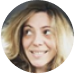
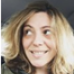
add js for slider, add style for slider

diff --git a/index.html b/index.html
@@ -164,16 +164,11 @@
         </p>
         <div class="four-section_slider">
             <ul>
-                <li><a href=""> <img src="/img/Photo1.png" alt="photo"> <p>John Doe</p>
-                    <p>New Delhi</p></a></li>
-                <li><a href=""><img src="/img/Photo2.png" alt="photo"> <p>John Doe</p>
-                    <p>New Delhi</p></a></li>
-                <li><a href=""> <img src="/img/Photo.png" alt="photo"> <p>John Doe</p>
-                    <p>New Delhi</p></a></li>
-                <li><a href=""><img src="/img/Photo4.png" alt="photo"> <p>John Doe</p>
-                    <p>New Delhi</p></a></li>
-                <li><a href=""> <img src="/img/Photo5.png" alt="photo"> <p>John Doe</p>
-                    <p>New Delhi</p></a></li>
+                <li class="slider-item"> <img src="/img/Photo1.png" alt="photo"> <p>Photo 1 <br> City 1</p></li>
+                <li class="slider-item"><img src="/img/Photo2.png" alt="photo"> <p>Photo 2<br> City 2</p></li>
+                <li class="slider-item activ"><img src="/img/Photo3.png" alt="photo"> <p>John Doe <br> New Delhi</p></li>
+                <li class="slider-item"><img src="/img/Photo4.png" alt="photo"> <p>Photo 3 <br> City 3</p></li>
+                <li class="slider-item"> <img src="/img/Photo5.png" alt="photo"> <p>Photo 4 <br> City 4</p></li>
             </ul>
         </div>
 
@@ -202,9 +197,9 @@
         <h4>CONTACT</h4>
         <p>
             Call : 9811224540. Email: contatus@homify.com
-GMC: gmc@homify.com
-Address: Homify Online Consumer Service Pvt. Ltd.
-2nd Floor, Building No 1735. Sector 2, HSR Layout, Bengluru Karnataka 560102
+            GMC: gmc@homify.com
+            Address: Homify Online Consumer Service Pvt. Ltd.
+            2nd Floor, Building No 1735. Sector 2, HSR Layout, Bengluru Karnataka 560102
         </p>
 
          </div>
@@ -258,10 +253,10 @@ Address: Homify Online Consumer Service Pvt. Ltd.
     <div class="footer-customerService">
         <h4>CUSTOMER SERVICE</h4>
         <ul>
-            <li><a href="">Customer Care Phone: 9811224540</a></li>
-            <li><a href="">Customer Care Email: contatus@homify.com</a></li>
-            <li><a href="">F&Q</a></li>
-            <li><a href="">Feedback</a></li>
+            <li><a href="tel:+9811224540">Customer Care Phone: 9811224540</a></li>
+            <li><a href="mailto:contatus@homify.com">Customer Care Email: contatus@homify.com</a></li>
+            <li><a href="#">F&Q</a></li>
+            <li><a href="#">Feedback</a></li>
         </ul>
     </div>
    
@@ -288,5 +283,7 @@ Address: Homify Online Consumer Service Pvt. Ltd.
 
     </footer>
 
+
+    <script src="main.js"></script>
 </body>
 </html>

diff --git a/main.js b/main.js
@@ -1,0 +1,20 @@
+/*********************** slider*******************************/
+    let sliderItem = document.getElementsByClassName('slider-item');
+    console.log(sliderItem)
+    for(i=0;i<sliderItem.length;i++){
+        sliderItem[i].style.order = i;
+        sliderItem[i].addEventListener('click',function(){
+            let sliderElem = this;
+            let order = sliderElem.style.order;
+            console.log( order);
+            console.log( sliderElem);
+            for(i=0;i<sliderItem.length;i++){
+                if(sliderItem[i].style.order == 2){
+                    sliderItem[i].style.order = order;
+                    sliderItem[i].classList.toggle('activ')
+                    sliderElem.style.order = 2;
+                   sliderElem.classList.toggle('activ')
+                }
+            }
+        })
+    }

diff --git a/style.css b/style.css
@@ -240,6 +240,27 @@ input[type="checkbox"]{
     list-style: none;
     padding: 0;
 }
+.slider-item img{
+    width: 98px;
+    height: 98px;
+    border-radius: 50%;
+    cursor: pointer;
+}
+
+.slider-item p{
+    display: none;
+    line-height: 2;
+}
+.activ p{
+    display: block;
+   
+}
+.activ img{
+    border-radius:5%;
+    transform: scale(1.5);
+    transition: 1s ease-in;
+}
+
 /*fifth-section*/
 .fifth-section{
     background-color: #4a90e2;
